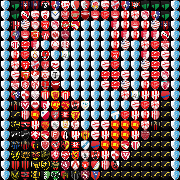
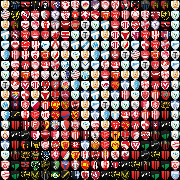
0037 Canvas image resizes correctly on browser resize

diff --git a/Mosaic/Mosaic.WebUI/Mosaic.WebUI/wwwroot/js/GridImage.js b/Mosaic/Mosaic.WebUI/Mosaic.WebUI/wwwroot/js/GridImage.js
@@ -2,6 +2,7 @@
 var ctxImage = can.getContext("2d");
 var im = new Image();
 var showGrid = true;
+var container = document.getElementById("image-container");
 
 var gridOptions = {
     minorLines: {
@@ -14,10 +15,11 @@ var gridOptions = {
     }
 };
 
+// First work out the scaling factor
+// Then set the actual width and height 
+// and width of the canvas from this
 im.onload = function () {
-    debugger;
     clearCanvas();
-    debugger;
     drawImage();
     if (showGrid) {
         drawGridLines(gridOptions.minorLines);
@@ -33,17 +35,25 @@ function toggleGrid() {
     im.onload();
 }
 
+function drawResize() {
+    im.onload();
+}
+
 function drawImage() {
-    var scaleFactor = 540 / im.width;
-    ctxImage.width = im.width * scaleFactor;
-    ctxImage.height = im.height * scaleFactor;
+    var scaleFactor = container.offsetWidth / im.width;
+    var w = im.width * scaleFactor;
+    var h = im.height * scaleFactor;
+    can.width = w;
+    can.height = h;
+    ctxImage.width = w;
+    ctxImage.height = h;
+
     ctxImage.drawImage(im, 0, 0, im.width, im.height,              // source tile
         0, 0, ctxImage.width, ctxImage.height); // destination tile
 }
 
 function drawGridLines(lineOptions) {
-    var scaleFactor = 540 / im.width;
-
+    var scaleFactor = container.offsetWidth / im.width;
     var iWidth = im.width * scaleFactor;
     var iHeight = im.height * scaleFactor;
     var scaleSeparation = lineOptions.separation * scaleFactor;
